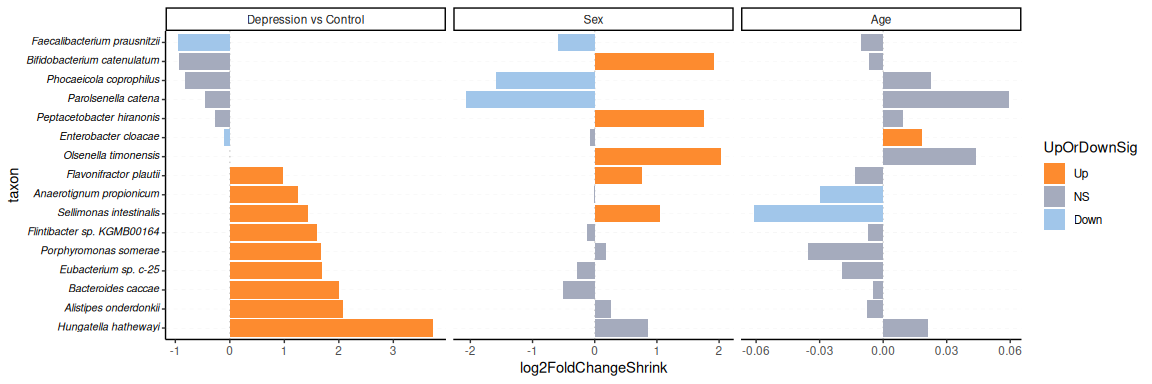
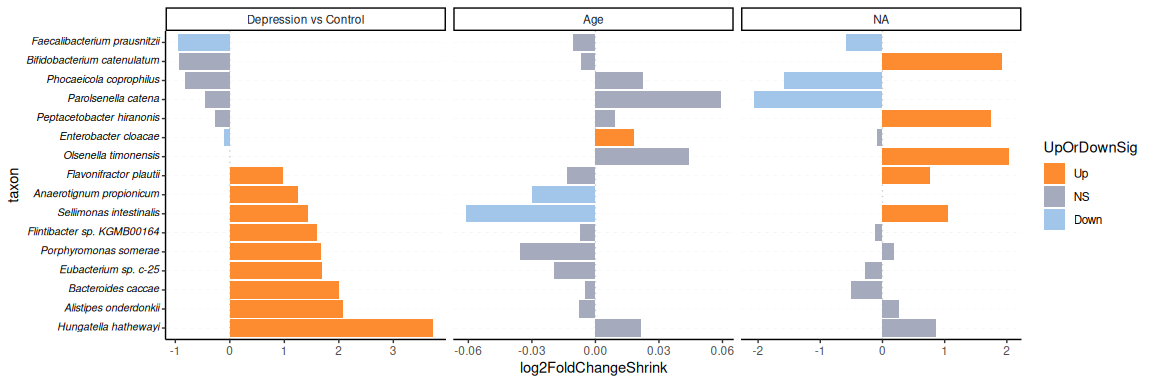
changed readme

diff --git a/README.md b/README.md
@@ -19,6 +19,10 @@ You can install the development version of G4Micro from
 ``` r
 # install.packages("pak")
 pak::pak("CarlosMoraMartinez/G4Micro")
+
+# Alternatively
+# install.packages("devtools")
+# devtools::install_github("Displayr/flipPlots")
 ```
 
 ## Alpha Diversity Analysis
@@ -240,42 +244,36 @@ betaplots <- makeAllPCoAs(phobj_raref, outdir,
 #> Square root transformation
 #> Wisconsin double standardization
 #> Run 0 stress 0.2424031 
-#> Run 1 stress 0.2448277 
-#> Run 2 stress 0.2428898 
-#> ... Procrustes: rmse 0.03462346  max resid 0.2044303 
-#> Run 3 stress 0.2467451 
-#> Run 4 stress 0.2454384 
-#> Run 5 stress 0.2428982 
-#> ... Procrustes: rmse 0.01704541  max resid 0.1012432 
-#> Run 6 stress 0.242542 
-#> ... Procrustes: rmse 0.03042661  max resid 0.20539 
-#> Run 7 stress 0.2426041 
-#> ... Procrustes: rmse 0.01197078  max resid 0.07874232 
-#> Run 8 stress 0.2428818 
-#> ... Procrustes: rmse 0.01704511  max resid 0.1012487 
-#> Run 9 stress 0.2424087 
-#> ... Procrustes: rmse 0.02134426  max resid 0.2075353 
-#> Run 10 stress 0.2451827 
-#> Run 11 stress 0.2453073 
-#> Run 12 stress 0.242542 
-#> ... Procrustes: rmse 0.03065969  max resid 0.2053179 
-#> Run 13 stress 0.2428023 
-#> ... Procrustes: rmse 0.009441156  max resid 0.08372681 
-#> Run 14 stress 0.2453726 
-#> Run 15 stress 0.2461969 
-#> Run 16 stress 0.2414916 
+#> Run 1 stress 0.2418233 
 #> ... New best solution
-#> ... Procrustes: rmse 0.02910673  max resid 0.2055788 
-#> Run 17 stress 0.2463081 
-#> Run 18 stress 0.241074 
+#> ... Procrustes: rmse 0.03572854  max resid 0.2040072 
+#> Run 2 stress 0.2447099 
+#> Run 3 stress 0.2414991 
 #> ... New best solution
-#> ... Procrustes: rmse 0.01073554  max resid 0.09044995 
-#> Run 19 stress 0.2413643 
-#> ... Procrustes: rmse 0.01548271  max resid 0.1330373 
-#> Run 20 stress 0.2422251 
+#> ... Procrustes: rmse 0.01622136  max resid 0.1566057 
+#> Run 4 stress 0.412099 
+#> Run 5 stress 0.2428885 
+#> Run 6 stress 0.2423004 
+#> Run 7 stress 0.2418237 
+#> ... Procrustes: rmse 0.016532  max resid 0.1570263 
+#> Run 8 stress 0.242706 
+#> Run 9 stress 0.2447252 
+#> Run 10 stress 0.2449334 
+#> Run 11 stress 0.2416749 
+#> ... Procrustes: rmse 0.02248396  max resid 0.1317105 
+#> Run 12 stress 0.2451827 
+#> Run 13 stress 0.2565237 
+#> Run 14 stress 0.2418364 
+#> ... Procrustes: rmse 0.01379898  max resid 0.131399 
+#> Run 15 stress 0.2448811 
+#> Run 16 stress 0.244341 
+#> Run 17 stress 0.2421058 
+#> Run 18 stress 0.2451858 
+#> Run 19 stress 0.2478613 
+#> Run 20 stress 0.2451657 
 #> *** Best solution was not repeated -- monoMDS stopping criteria:
-#>      2: no. of iterations >= maxit
-#>     18: stress ratio > sratmax
+#>      1: no. of iterations >= maxit
+#>     19: stress ratio > sratmax
 
 cowplot::plot_grid(plotlist = betaplots, nrow = 1)
 ```
@@ -381,16 +379,7 @@ test_vars <- c("Condition", "Sex", "Age")
 
 result <- deseq_full_pipeline(phobj_filtonly, name = "CondSexAge", vars2deseq = test_vars, opt = opt)
 #> Minfreq:  0.05 , setting minsampleswithcount to  5.25
-#> NUM COLS:  2
-#> NUM COLS:  2
-#> NUM COLS:  2
-#> NUM COLS:  2
-#> NUM COLS:  2
-#> NUM COLS:  2
-#> All contrasts TRUE, intersecting Taxon listNUM COLS:  2
-#> NUM COLS:  2
-#> NUM COLS:  2
-#> NUM COLS:  2
+#> All contrasts TRUE, intersecting Taxon list
 #> Error plotDispEsts
 ```
 
@@ -406,6 +395,8 @@ taxa2plot <- result$all_contrasts$Condition_Depression_vs_Control$resdf %>% filt
 gtt <- result$all_contrasts$Condition_Depression_vs_Control$res %>% getGTTableFromRes(taxa2plot, "DAA taxa in Depressed vs Controls")
 ```
 
+<img src="man/figures/gt_table.png" width="100%" />
+
 See results table for the contrast of Sex:
 
 ``` r
@@ -415,6 +406,8 @@ taxa2plot <- result$all_contrasts$Sex_Female_vs_Male$resdf %>% filter(!is.na(pad
 gtt <- result$all_contrasts$Sex_Female_vs_Male$res %>% getGTTableFromRes(taxa2plot, "DAA taxa in Women vs Men")
 ```
 
+<img src="man/figures/gt_table2.png" width="100%" />
+
 See results table for the contrast of Age:
 
 ``` r
@@ -423,6 +416,8 @@ taxa2plot <- result$all_contrasts$Age$resdf %>% filter(!is.na(padj ) & padj < 0.
      arrange(padj) %>% pull(taxon) 
 gtt <- result$all_contrasts$Age$res %>% getGTTableFromRes(taxa2plot, "DAA taxa with Age")
 ```
+
+<img src="man/figures/gt_table3.png" width="100%" />
 
 Make heatmap:
 
@@ -442,7 +437,6 @@ makeHeatmap(result$all_contrasts$Condition_Depression_vs_Control$resdf,
             trim_values = TRUE, 
             taxalist=taxa2plot, 
             max_hm_h=10, max_hm_w=12)
-#> NUM COLS:  2
 ```
 
 <img src="man/figures/README-deseq5-1.png" width="100%" />
@@ -459,7 +453,7 @@ contrastlist2 <- list(
 
 names(contrastlist2) <- c( "Sex", "Age")
 
-contrast_names_pretty <- c("Depression vs Control",  gsub("_", " ", names(contrastlist2)))
+contrast_names_pretty <- c("Depression vs Control",  "Female vs Male", "Age")
 
 compareLFCContrats2(contrastlist2, mainContrast, 
                    contrast_names_pretty, "Depression_vs_Control", 
@@ -503,3 +497,5 @@ taxa2plot <- result_int$all_contrasts$Condition_Depression_vs_Control$resdf %>%
 gtt <- result_int$all_contrasts$Condition_Depression_vs_Control$res %>% 
   getGTTableFromRes(taxa2plot, "DAA between Depr and C controlling for  BMI + Sex * Age")
 ```
+
+<img src="man/figures/gt_table4.png" width="100%" />
